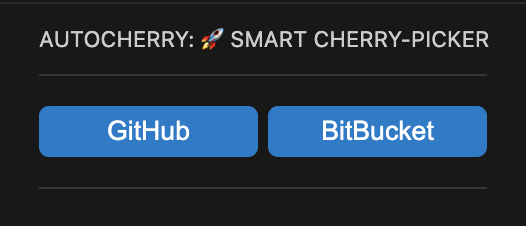
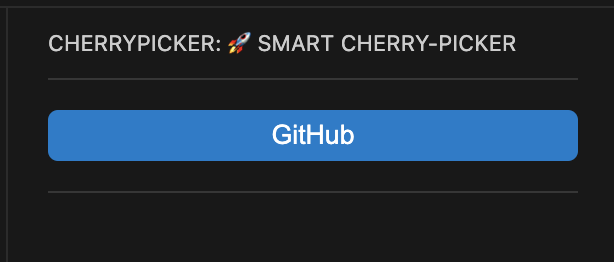
autoCherry : fix images with new UI

diff --git a/README.md b/README.md
@@ -1,6 +1,6 @@
-# 🍒 AutoCherry - Smart Git Cherry-Picking in VS Code
+# 🍒 CherryPicker - Smart Git Cherry-Picking in VS Code
 
-**AutoCherry** helps you cherry-pick commits from pull requests across branches — directly inside **Visual Studio Code** — with zero need to touch the command line.
+**CherryPicker** helps you cherry-pick commits from pull requests across branches — directly inside **Visual Studio Code** — with zero need to touch the command line.
 
 Supports **GitHub** and **Bitbucket** repositories. Fully OAuth-enabled. Intuitive. Clean. Fast.
 
@@ -20,29 +20,31 @@ Supports **GitHub** and **Bitbucket** repositories. Fully OAuth-enabled. Intuiti
 
 ## 🧭 How It Works
 
+Absolutely — here's the updated section in your exact formatting style, reflecting the new automatic detection behavior:
+
+---
+
 ### 1. **Authentication**
 
-When you open the AutoCherry panel:
+When you open the Cherry Picker panel:
 
-- Choose either **GitHub** or **Bitbucket** to authenticate.
-- A browser tab will open for OAuth permissions.
-- Once allowed, you'll be redirected back to VS Code.
+- The extension **automatically detects the current Git repository** in your workspace.
+- Based on the detected repo host (e.g., GitHub or Bitbucket), it will **display the appropriate provider button**.
+- Click the shown button to authenticate via OAuth.
+- A browser tab will open to request permissions.
+- Once approved, you'll be redirected back to VS Code.
 
-📸 **Initial View (Choose Provider)**
+📸 **Initial View (Auto-Detected Provider)**
 
 ![Auth Screen](media/AuthCTA.png)
 
-✅ **If successful**: You'll see a connection message like `Connected to GitHub`.
+✅ **If successful**: You'll see a message like `Connected to GitHub`.
 
 ![Success](media/AuthSuccess.png)
 
-❌ **If authentication fails**: An error is shown below the buttons.
+❌ **If authentication fails**: An error is shown below the button.
 
 ![Error](media/AuthError.png)
-
-❗ **If the repo host doesn’t match the provider selected** (e.g., Bitbucket selected for a GitHub repo), an error will appear too.
-
-![Error](media/WrongHostError.png)
 
 ---
 
